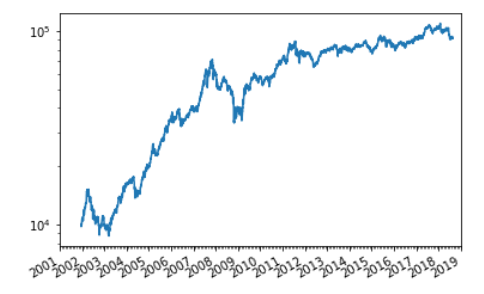
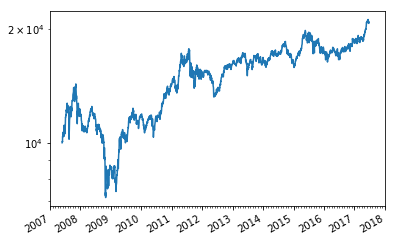
change date to simulate

Changed region(s): [[0.0, 0.0289, 1.0, 0.9545]]

diff --git a/README.md b/README.md
@@ -7,6 +7,7 @@
 ### 매매전략
 - 4개의 지수중 최근 6개월간 가장 많이 오른 지수에 투자
 - 네 개의 지수의 6개월 수익이 모두 예금금리 이하로 감소하면 모든 종목 매도 후 현금 보유
+- 백테스트기간: 2007.5.25 ~ 2017.5.25
 - 월 1회 리밸런싱
 - 비용 0
 
@@ -14,7 +15,7 @@
 
 |Return|CAGR|표준편차|최고의해|최악의해|MDD|SR|
 |------|----|-------|--------|-------|---|---|
-|x9|12%|0.26|76%|-32%|53%|0.76|
+|x2|5.9%|0.15|39%|-27%|49%|0.47|
 
 ![16.result](16.res.png)
 
@@ -24,6 +25,7 @@
 ### 매매전략
 - PBR 최저 20% 기업에만 투자 (상장폐지된 종목은 제외)
 - F-Score 9개 요소를 검토해 맞으면 1점, 틀리면 0점을 매긴 후, 점수가 높은 20~30개 기업 매수
+- 백테스트기간: 2007.5.25 ~ 2017.5.25
 - 연 1회 리밸런싱
 - 비용 0
 
@@ -31,7 +33,7 @@
 
 |Return|CAGR|MDD|SR|
 |------|----|---|---|
-|x44|29%|59%|1.3|
+|x6|21%|56%|1.2|
 
 ![28.result](28.res.png)
 
@@ -46,6 +48,7 @@
 - 모멘텀 순위 계산(12개월 과거 수익률 순위)
 - 순위 비중: 벨류 콤보 33%, 퀄리티 콤보 33%, 모멘텀 33%
 - 통합 순위가 가장 높은 주식 매수
+- 백테스트기간: 2007.5.25 ~ 2017.5.25
 - 연 1회 리밸런싱
 - 비용 0
 
@@ -53,6 +56,6 @@
 
 |Return|CAGR|MDD|SR|
 |------|----|---|---|
-|x9|18%|54%|1.0|
+|x3|12%|50%|0.7|
 
 ![34.result](34.res.png)
